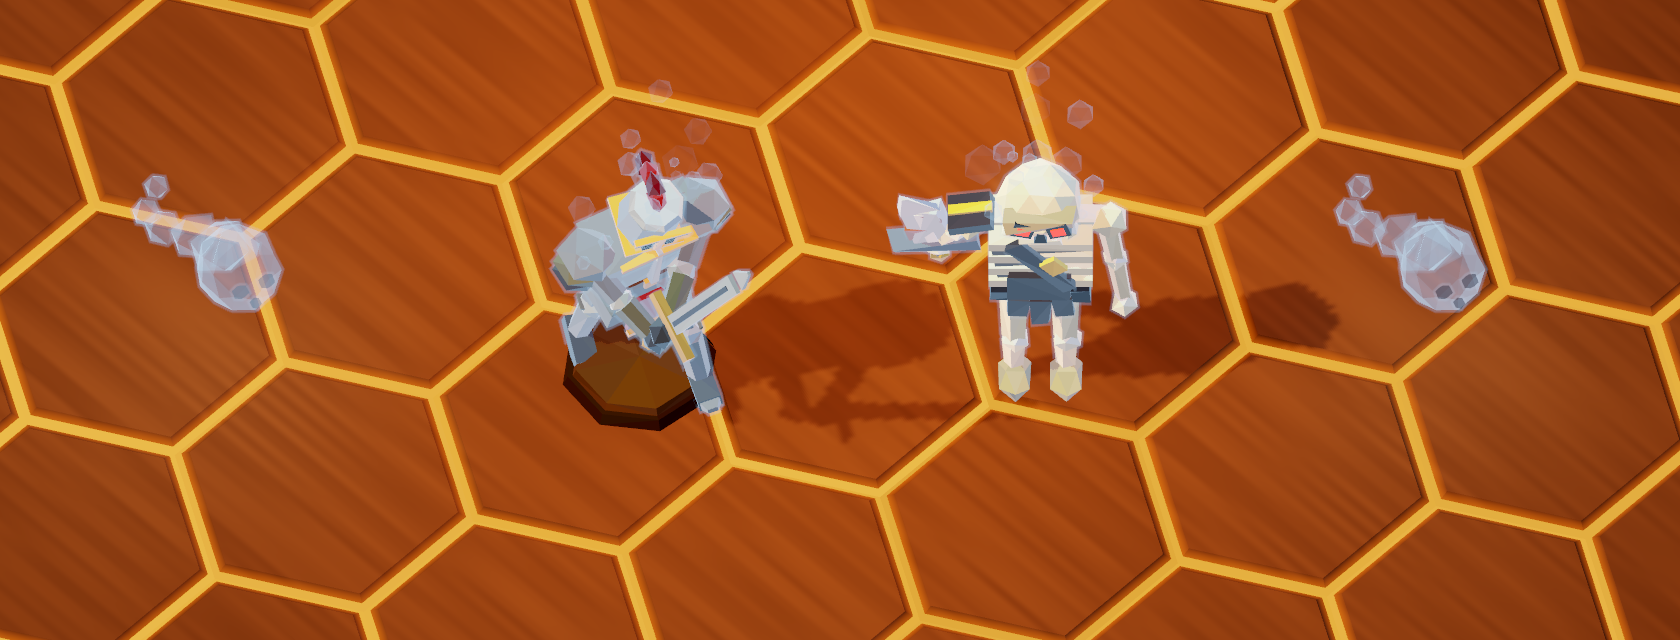
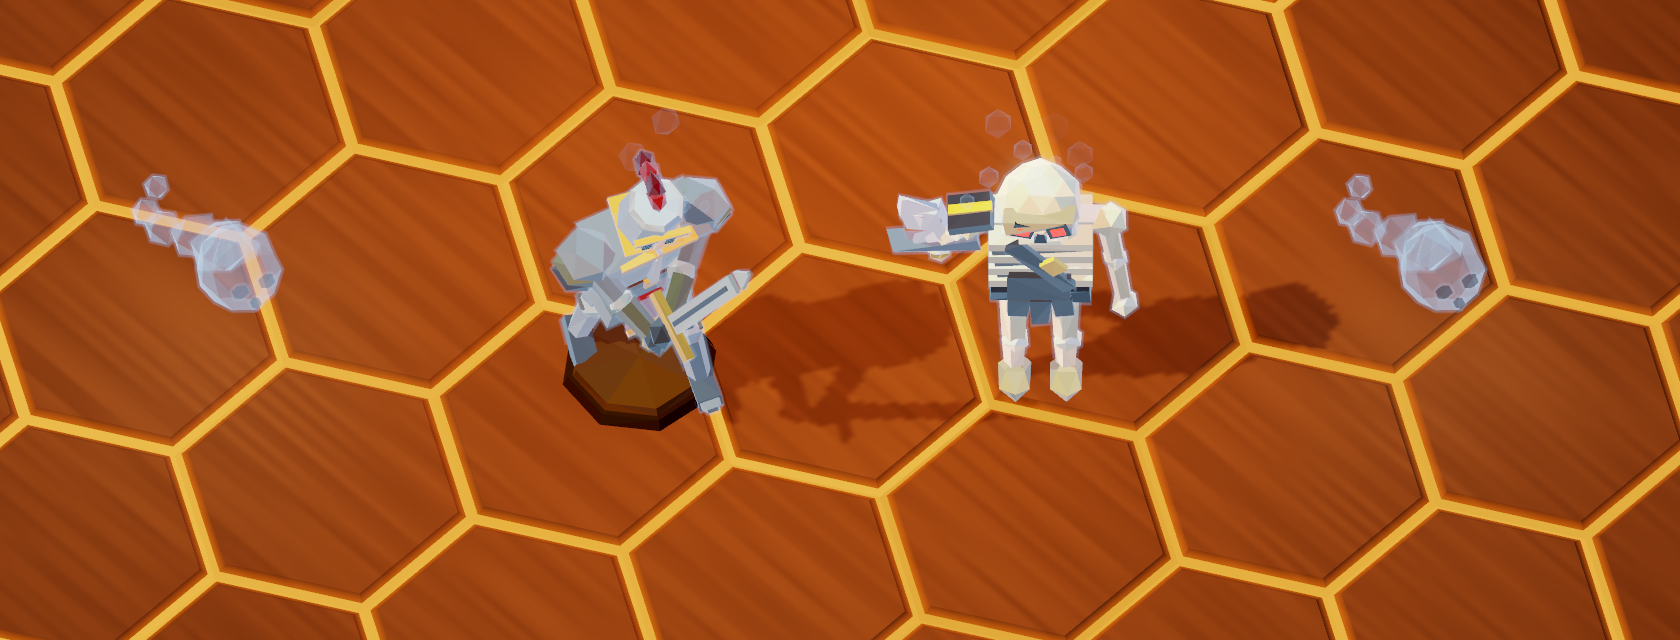
Ghost form: the hero is just the ghost shape (warm vapour, no body)
The user (2026-10-29): "lets actually remove the main body and make it just
the ghost shape". One treatment, ghost, replacing glass and spirit.

diff --git a/docs/design/haunt-look.md b/docs/design/haunt-look.md
@@ -31,6 +31,10 @@ armour, a skeleton), and ghost form is a whole-body transform you cast on yourse
   the wisp). Seen in motion in the gym, the user: "Tone the particles down more but otherwise looks good". Toned down: fewer
   puffs (5 off the head, 6 off the shoulders), smaller, and fainter (0.9 of the wisp's alpha, was 1.6). Kept: **shell +
   seep**, the default the user saw.
+- **The player's ghost form is just the ghost shape** (the user: "lets actually remove the main body and make it just
+  the ghost shape"): every part of the hero in the same vapour as the possessed hosts' ghost body, warm (not the enemies'
+  cold colour), no body, no ink, no shadow (`GhostForm`, one treatment, "ghost"; glass and spirit are gone). The gym's
+  Ghost form row is off / ghost.
 - **The niche is dropped for now.** The single niche "doesn't read" (it looked like a free-standing box). A wall of stacked
   burial slots was tried next and also failed ("No, that isn't working"): at the game camera it still read as a chest in
   the middle of the room. The user: "Drop the niche for now." The dormant skeleton is slumped only, and the risen one stands
